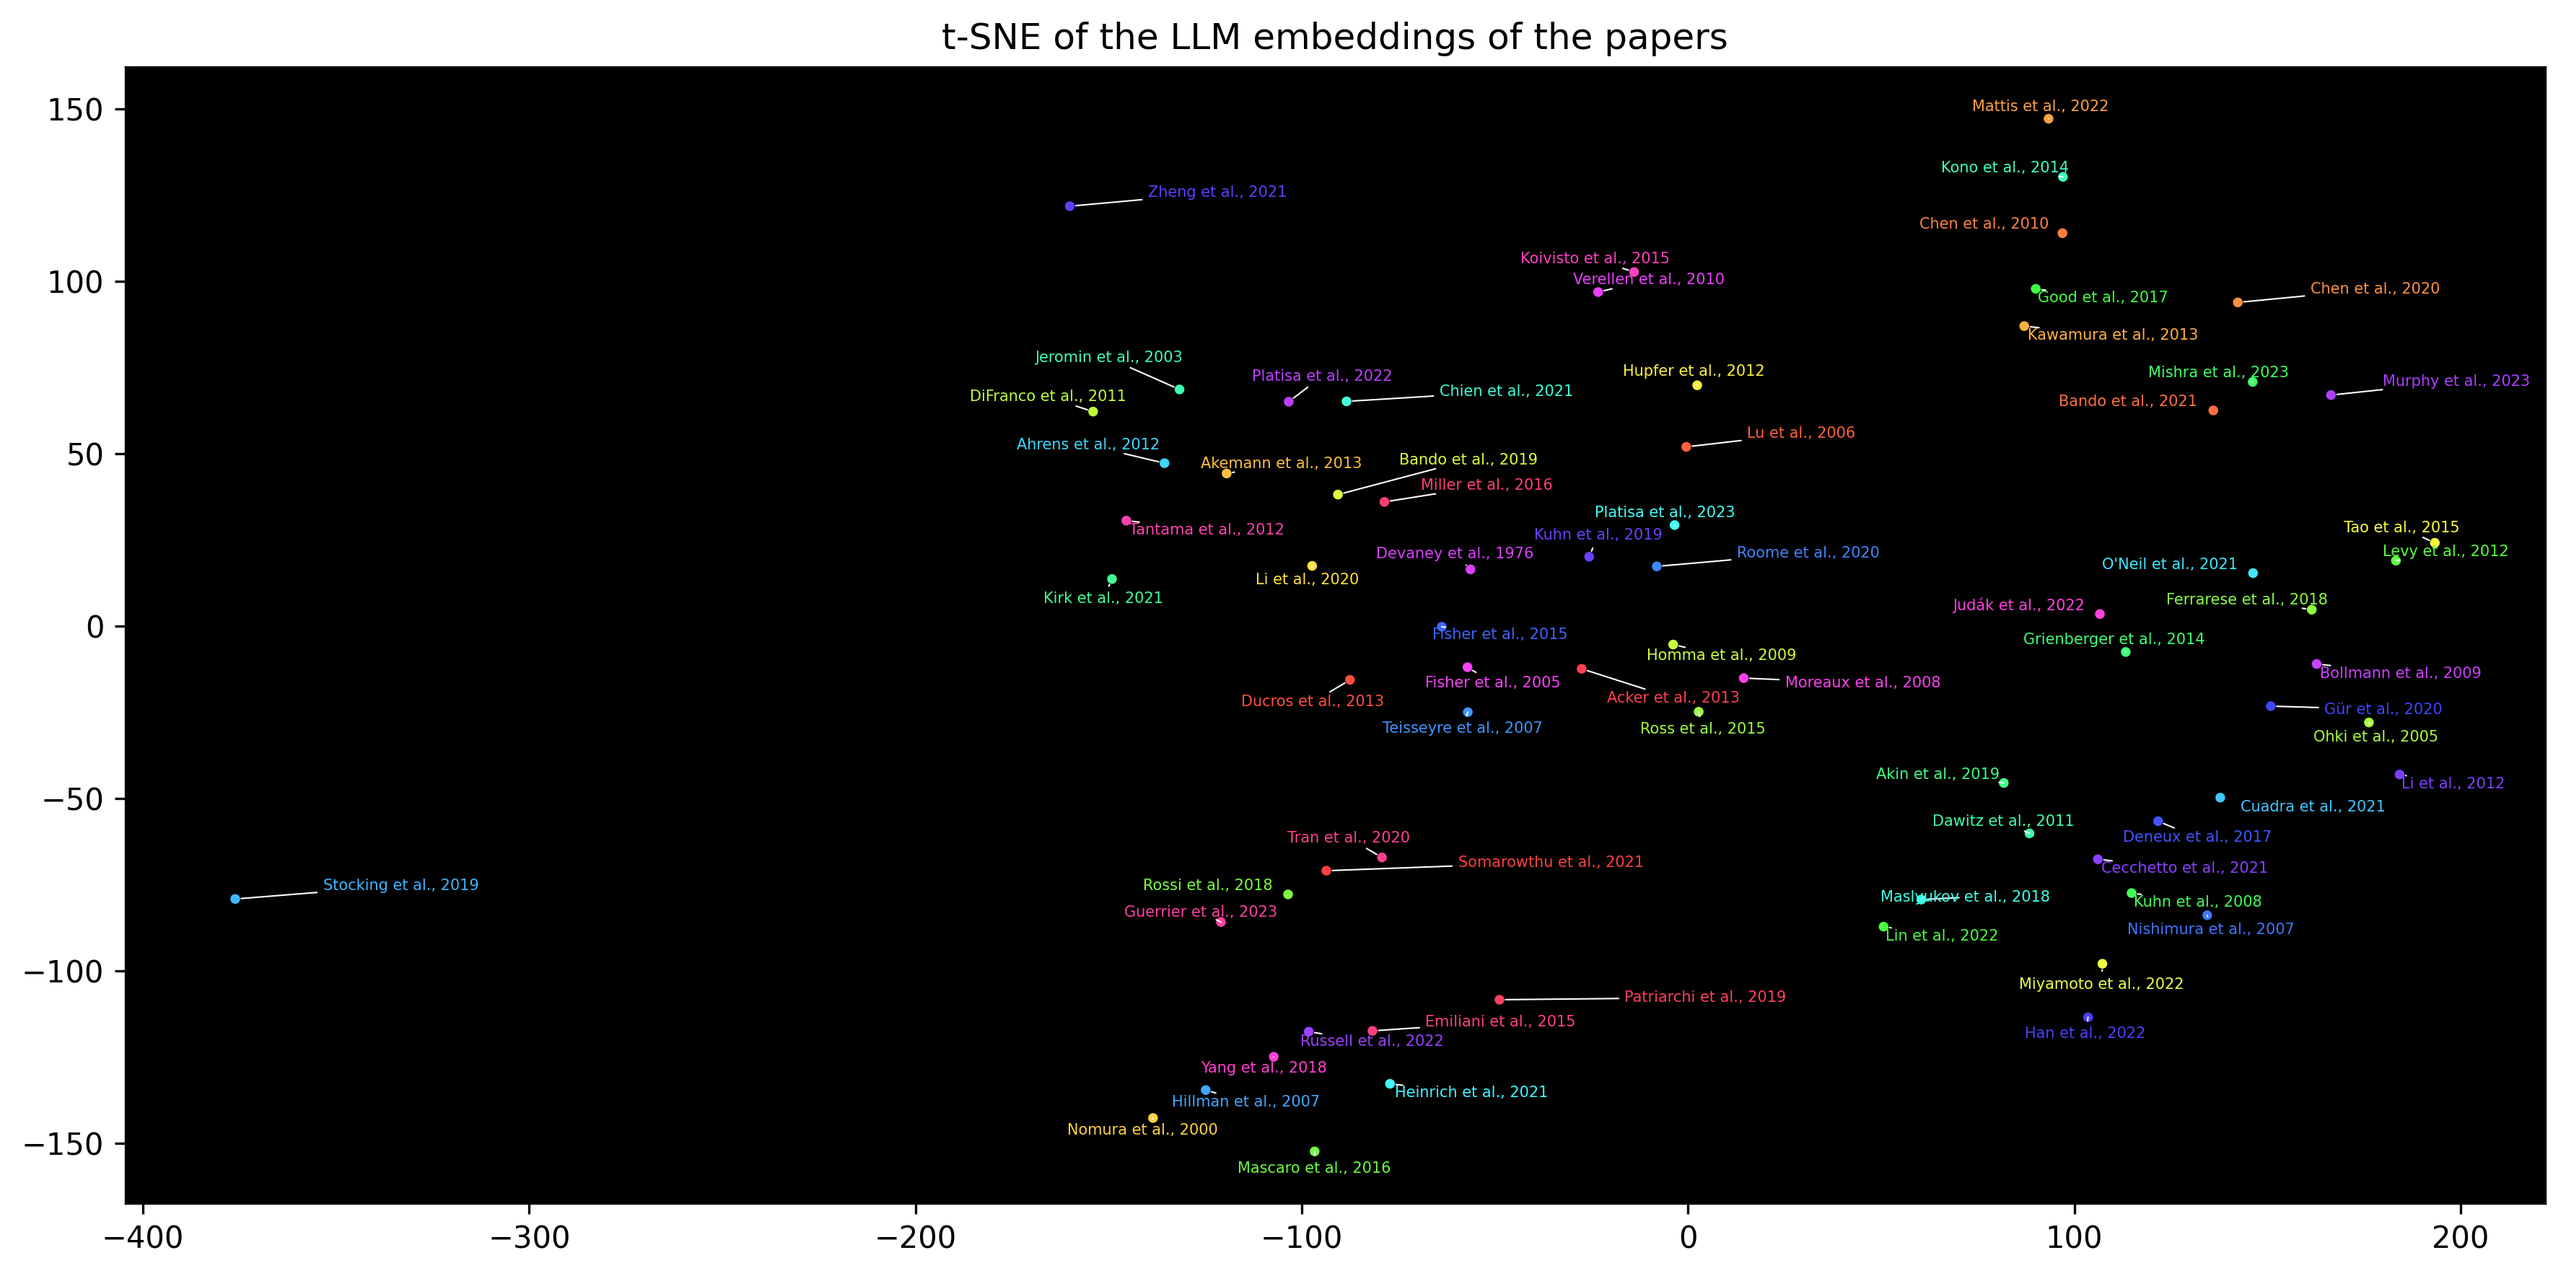
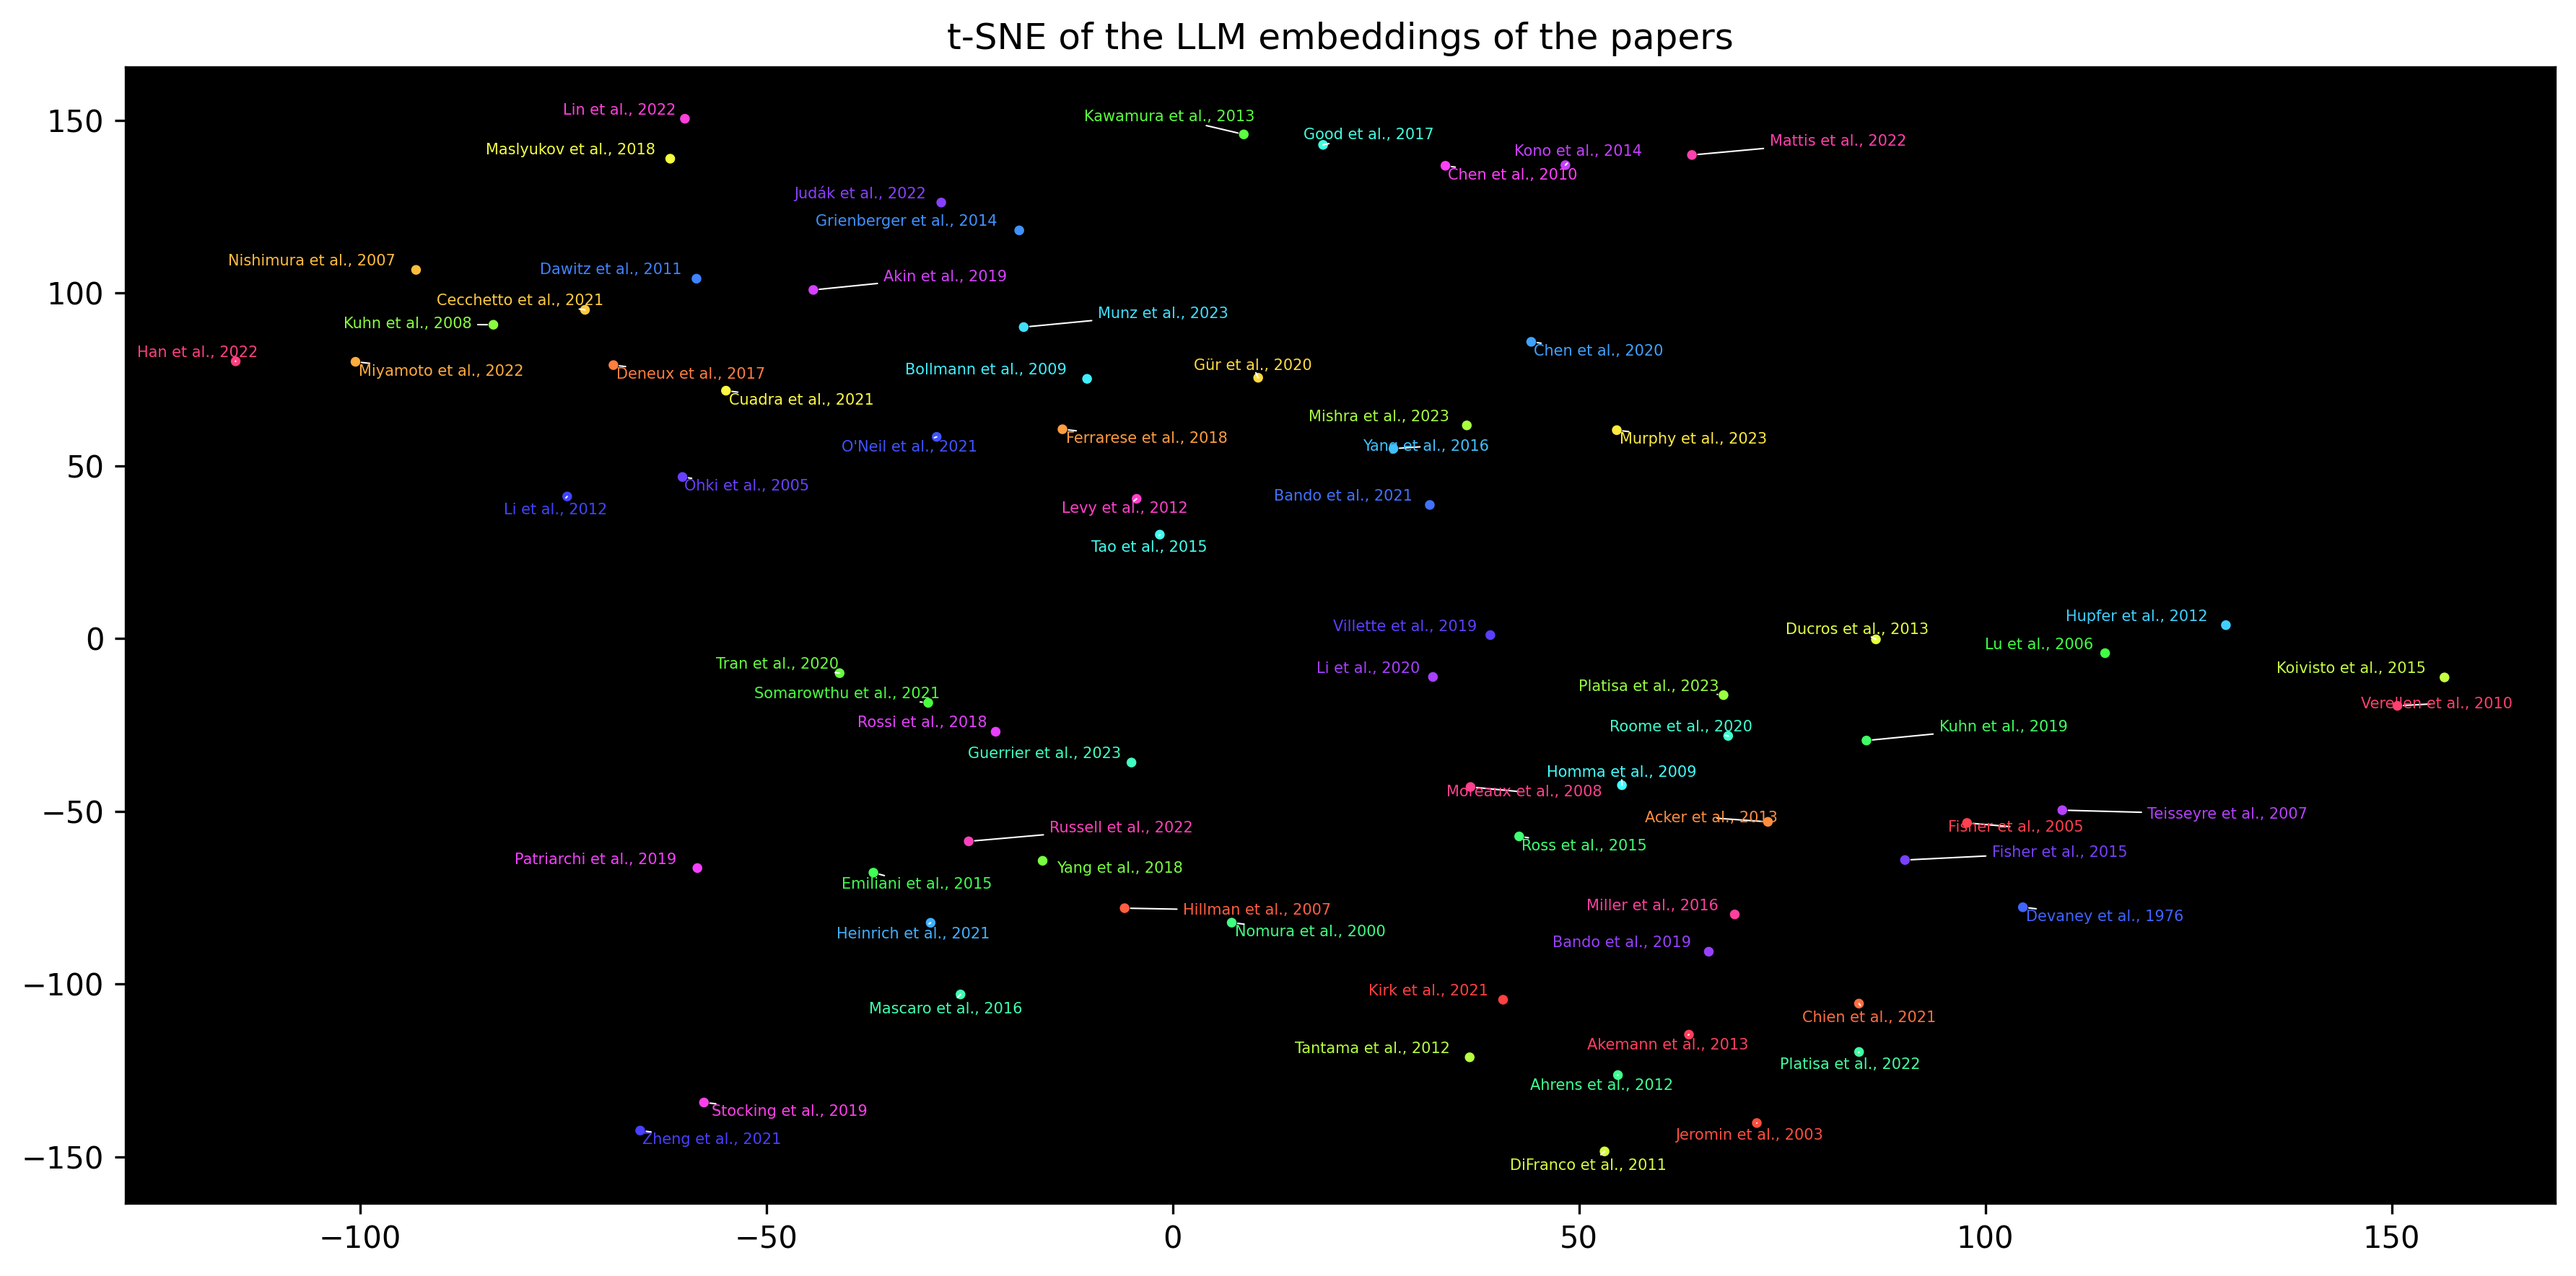
update example

diff --git a/scripts/pubmed_embedding.py b/scripts/pubmed_embedding.py
@@ -44,6 +44,15 @@ if __name__ == "__main__":
     )
 
     parser.add_argument(
+        "--perplexity",
+        help=("Perplexity for the t-SNE plot, default is 8. Higher values "+
+              "will make the plot more spread out, lower values will "+
+                "make the plot more clustered."),
+        type=int,
+        default=8,
+    )
+
+    parser.add_argument(
         "--add_citation_count",
         help="Whether to add the citation count to the plot",
         type=bool,
@@ -99,4 +108,5 @@ if __name__ == "__main__":
     # We plot the t-SNE plot
     multi_paper.plot_paper_embedding_map(save_path=save_path,
                                          field=args.field,
+                                         perplexity=args.perplexity,
                                          label='xshort')

diff --git a/src/papers_extractor/unique_paper.py b/src/papers_extractor/unique_paper.py
@@ -269,7 +269,7 @@ publication identifier.".format(identifier))
             None
         """
         if self.journal is None:
-            if not check_string_length(journal, 2, 100):
+            if not check_string_length(journal, 2, 200):
                 raise ValueError("The journal is not the right length.")
             self.journal = journal
         else:
